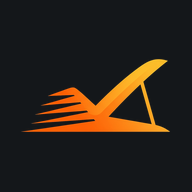
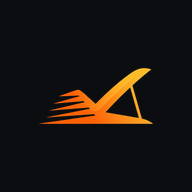
fix(pwa): usar rutas relativas en sw.js v7, nuevos iconos bajokapot y manifest BajoKapot

Changed region(s): [[0.125, 0.2812, 0.875, 0.6875], [0.6562, 0.375, 0.6875, 0.4062]]

diff --git a/app/public/index.html b/app/public/index.html
@@ -6,14 +6,16 @@
   <title>BAJOKAPOT — Revisión &amp; Fallas | Copiloto Automotriz (Venezuela)</title>
   
   <!-- METADATOS PWA & MÓVIL -->
-  <link rel="icon" type="image/png" sizes="32x32" href="favicon.png">
-  <link rel="icon" type="image/x-icon" href="assets/icons/favicon.ico">
-  <link rel="apple-touch-icon" href="assets/icons/apple-touch-icon.png">
-  <link rel="manifest" href="manifest.json">
+  <link rel="icon" type="image/png" sizes="32x32" href="favicon.png?v=7">
+  <link rel="icon" type="image/x-icon" href="assets/icons/favicon.ico?v=7">
+  <link rel="apple-touch-icon" sizes="180x180" href="assets/icons/bajokapot-apple-touch-icon.png?v=7">
+  <link rel="manifest" href="manifest.json?v=7">
+  <meta name="application-name" content="BajoKapot">
   <meta name="theme-color" id="metaThemeColor" content="#0B0D10">
   <meta name="apple-mobile-web-app-capable" content="yes">
+  <meta name="mobile-web-app-capable" content="yes">
   <meta name="apple-mobile-web-app-status-bar-style" content="black-translucent">
-  <meta name="apple-mobile-web-app-title" content="BAJOKAPOT">
+  <meta name="apple-mobile-web-app-title" content="BajoKapot">
   
     
   <!-- Google Fonts: Plus Jakarta Sans (UI & Tabular Nums) + JetBrains Mono (Solo códigos) -->
@@ -4737,11 +4739,18 @@ input:focus, select:focus, textarea:focus {
   </div>
 
   <script>
-    // Registro y actualización del Service Worker PWA (BAJOKAPOT v6)
+    // Registro, purga de cachés legadas y actualización del Service Worker PWA (BAJOKAPOT v7)
+    if ('caches' in window) {
+      caches.keys().then(function(keys) {
+        keys.forEach(function(k) {
+          if (k !== 'bajokapot-pwa-v7') caches.delete(k);
+        });
+      }).catch(function() {});
+    }
     if ('serviceWorker' in navigator) {
       const isLocalDev = location.hostname === '127.0.0.1' || location.hostname === 'localhost';
       if (!isLocalDev) {
-        navigator.serviceWorker.register('sw.js?v=6', { updateViaCache: 'none' }).then(function(reg) {
+        navigator.serviceWorker.register('./sw.js?v=7', { updateViaCache: 'none' }).then(function(reg) {
           if (typeof reg.update === 'function') reg.update();
         }).catch(function(err) {
           console.warn('SW register notice:', err);
@@ -4750,7 +4759,7 @@ input:focus, select:focus, textarea:focus {
     }
   </script>
   <!-- SCRIPT MODULAR CARGADO CON CACHE-BUSTING -->
-  <script src="app.js?v=20261114_bajokapot_v6"></script>
+  <script src="app.js?v=20261114_bajokapot_v7"></script>
   <script type="module" src="auth.js"></script>
 
   <!-- HIDE BANNER AFTER 1 SEC -->

diff --git a/index.html b/index.html
@@ -3,9 +3,10 @@
 <head>
   <meta charset="UTF-8">
   <meta name="viewport" content="width=device-width, initial-scale=1.0, maximum-scale=1.0, user-scalable=no">
-  <title>CharuAutos — Ecosistema Digital Automotriz (Venezuela & LatAm)</title>
+  <title>BajoKapot — Ecosistema Digital Automotriz (Venezuela & LatAm)</title>
   
-  <link rel="icon" type="image/x-icon" href="favicon.ico">
+  <link rel="icon" type="image/x-icon" href="favicon.ico?v=7">
+  <link rel="icon" type="image/png" href="app/public/assets/icons/bajokapot-icon-192.png?v=7">
   <!-- Google Fonts: Plus Jakarta Sans & JetBrains Mono -->
   <link rel="preconnect" href="https://fonts.googleapis.com">
   <link rel="preconnect" href="https://fonts.gstatic.com" crossorigin>
@@ -382,7 +383,7 @@
   <header>
     <div class="brand-wrap">
       <div class="brand-logo">
-        Charu<span>Autos</span>
+        Bajo<span>Kapot</span>
         <span class="brand-tag">AUTOMOTIVE</span>
       </div>
     </div>
@@ -423,7 +424,7 @@
             <span class="badge-type badge-saas">Plataforma SaaS</span>
           </div>
 
-          <h2 class="card-title">CharuAutos WebApp & Comparador</h2>
+          <h2 class="card-title">BajoKapot — Revisión &amp; Fallas</h2>
           <p class="card-desc">
             Suite digital para conductores: Matchmaker de compra según presupuesto y vías de Venezuela, diagnóstico OBD2 anti-estafas, comparador multi-fichas con gráficos Chart.js y Mi Garage con odómetro criptográfico SHA-256.
           </p>
@@ -443,7 +444,7 @@
             </li>
             <li class="feature-item">
               <svg width="14" height="14" viewBox="0 0 24 24" fill="none" stroke="currentColor" stroke-width="2.5"><polyline points="20 6 9 17 4 12"/></svg>
-              <span>Suscripción CharuPro bimonetaria (USD & Pago Móvil)</span>
+              <span>Suscripción BajoKapot PRO bimonetaria (USD & Pago Móvil)</span>
             </li>
           </ul>
         </div>

diff --git a/app/public/sw.js b/app/public/sw.js
@@ -3,24 +3,28 @@
  * Cache-first para recursos estáticos y fallback offline para navegación.
  */
 
-const CACHE_NAME = 'bajokapot-pwa-v6';
+const CACHE_NAME = 'bajokapot-pwa-v7';
 const STATIC_ASSETS = [
-  '/',
-  '/manifest.json',
-  '/certificado_charupro_muestra.html',
-  '/bajokapot-logo-dark.png',
-  '/bajokapot-logo-light.png',
-  '/bajokapot-wordmark-dark.png',
-  '/bajokapot-wordmark-light.png',
-  '/bajokapot-icon.png',
-  '/icon.png',
-  '/favicon.png'
+  './',
+  './index.html',
+  './manifest.json?v=7',
+  './certificado_charupro_muestra.html',
+  './bajokapot-logo-dark.png',
+  './bajokapot-logo-light.png',
+  './bajokapot-wordmark-dark.png',
+  './bajokapot-wordmark-light.png',
+  './bajokapot-icon.png',
+  './assets/icons/bajokapot-icon-192.png?v=7',
+  './assets/icons/bajokapot-icon-512.png?v=7',
+  './assets/icons/bajokapot-apple-touch-icon.png?v=7',
+  './icon.png',
+  './favicon.png?v=7'
 ];
 
 self.addEventListener('install', (event) => {
   event.waitUntil(
     caches.open(CACHE_NAME).then((cache) => {
-      return cache.addAll(STATIC_ASSETS);
+      return Promise.allSettled(STATIC_ASSETS.map((url) => cache.add(url)));
     })
   );
   self.skipWaiting();
@@ -42,6 +46,7 @@ self.addEventListener('activate', (event) => {
 });
 
 self.addEventListener('fetch', (event) => {
+  if (event.request.method !== 'GET') return;
   // Estrategia Network-first con fallback a cache local
   event.respondWith(
     fetch(event.request)
@@ -59,9 +64,9 @@ self.addEventListener('fetch', (event) => {
           if (cachedResponse) {
             return cachedResponse;
           }
-          // Fallback a raíz si es navegación
+          // Fallback relativo para GitHub Pages y Vercel
           if (event.request.mode === 'navigate') {
-            return caches.match('/');
+            return caches.match('./index.html').then((idx) => idx || caches.match('./'));
           }
         });
       })

diff --git a/app/public/app.js b/app/public/app.js
@@ -10053,6 +10053,11 @@ function reloadBajoKapotApp() {
       fill.style.animation = '';
     }
   }
+  if ('caches' in window) {
+    caches.keys().then((keys) => {
+      keys.forEach((k) => caches.delete(k));
+    }).catch(() => {});
+  }
   if ('serviceWorker' in navigator) {
     navigator.serviceWorker.getRegistrations().then((regs) => {
       regs.forEach((r) => {
